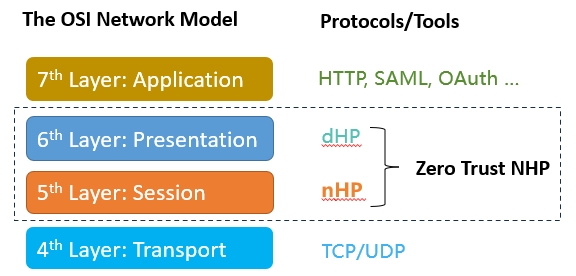
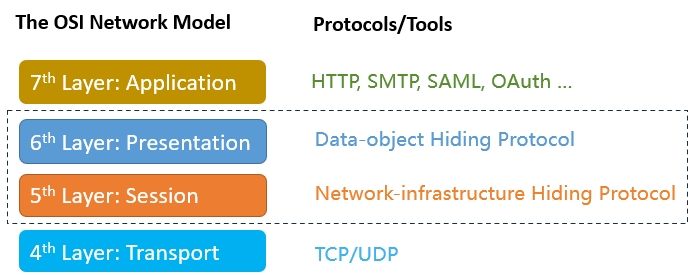
Update the OSI model diagram in README for the DHP

Changed region(s): [[0.0, 0.1745, 1.0, 1.0], [0.0, 0.0291, 0.8125, 0.1164]]

diff --git a/README.md b/README.md
@@ -61,17 +61,17 @@ Once you click the "Login" button, authentication is completed successfully, and
 
 The openness of TCP/IP protocols has driven the explosive growth of internet applications but also exposed vulnerabilities, allowing malicious actors to gain unauthorized access and exploit any exposed IP address. Although the [OSI network model](https://en.wikipedia.org/wiki/OSI_model) defines the *5th layer (Session Layer)* for managing connections, few effective solutions have been implemented to address this.
 
-**NHP**, or the **"Network-resource Hiding Protocol"**, is a lightweight cryptography-driven Zero Trust networking protocol designed to function at the *OSI Session Layer*, which is optimal for managing network visibility and connections. NHP's key objective is to conceal protected resources from unauthorized entities, granting access only to verified, authorized users through continuous verification, contributing to a more trustworthy Internet.
+**NHP**, or the **"Network-resource Hiding Protocol"**, is a lightweight cryptography-driven Zero Trust  protocol designed to function at the *OSI 5th and 6th Layer*, which is optimal for managing network visibility and connections. NHP's key objective is to conceal protected resources from unauthorized entities, granting access only to verified, authorized users through continuous verification, contributing to a more trustworthy Internet.
 
 ![Trustworthy Internet](docs/images/TrustworthyCyberspace.png)
 
 ---
 
-## Solution: OpenNHP Fixes the Network Visibility Control
+## Solution: OpenNHP Fixes the Network/Data Visibility Control
 
-**OpenNHP** is the open-source implementation of the NHP protocol. It is cryptography-driven and designed with security-first principles, implementing a true zero-trust architecture at the *OSI Session Layer*. 
+**OpenNHP** is the open-source implementation of the NHP protocol. It is cryptography-driven and designed with security-first principles, implementing a true zero-trust architecture at the *OSI Session and Presentation Layer*. 
 
-![OpenNHP as the OSI 5th layer](docs/images/OSI_OpenNHP.png)
+![OpenNHP as the OSI 5th and 6th layer](docs/images/OSI_OpenNHP2.png)
 
 OpenNHP builds upon earlier research in network hiding technology, utilizing modern cryptographic framework and architecture to ensure security and high performance, thereby overcoming the limitations of previous technologies.
 
